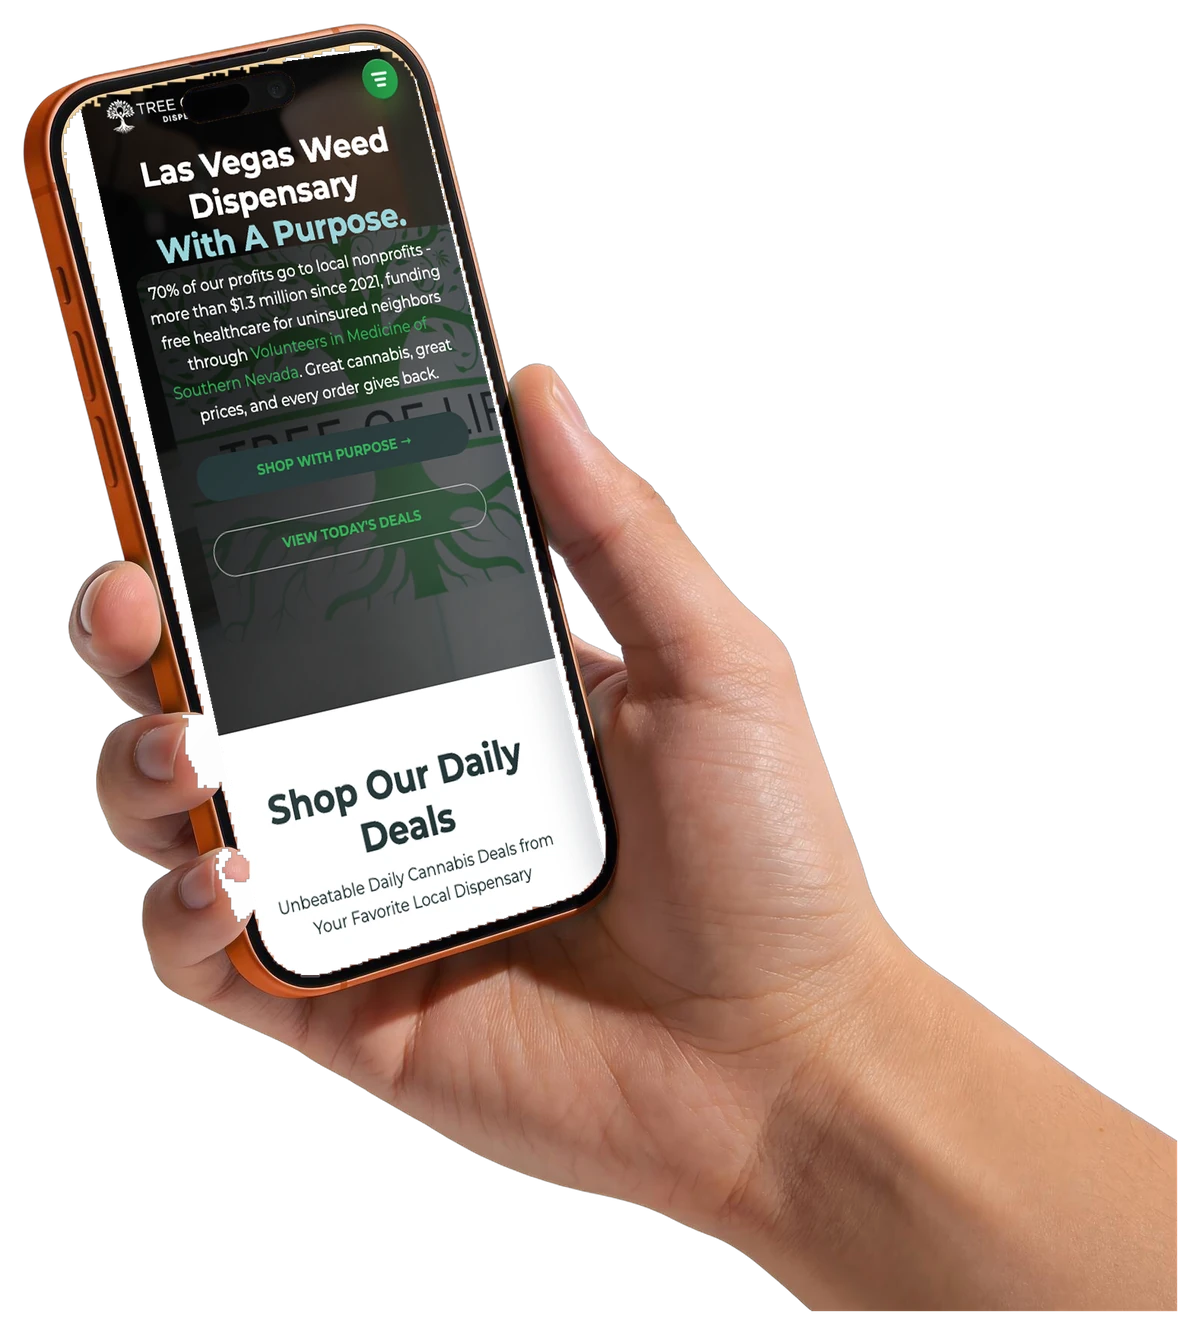
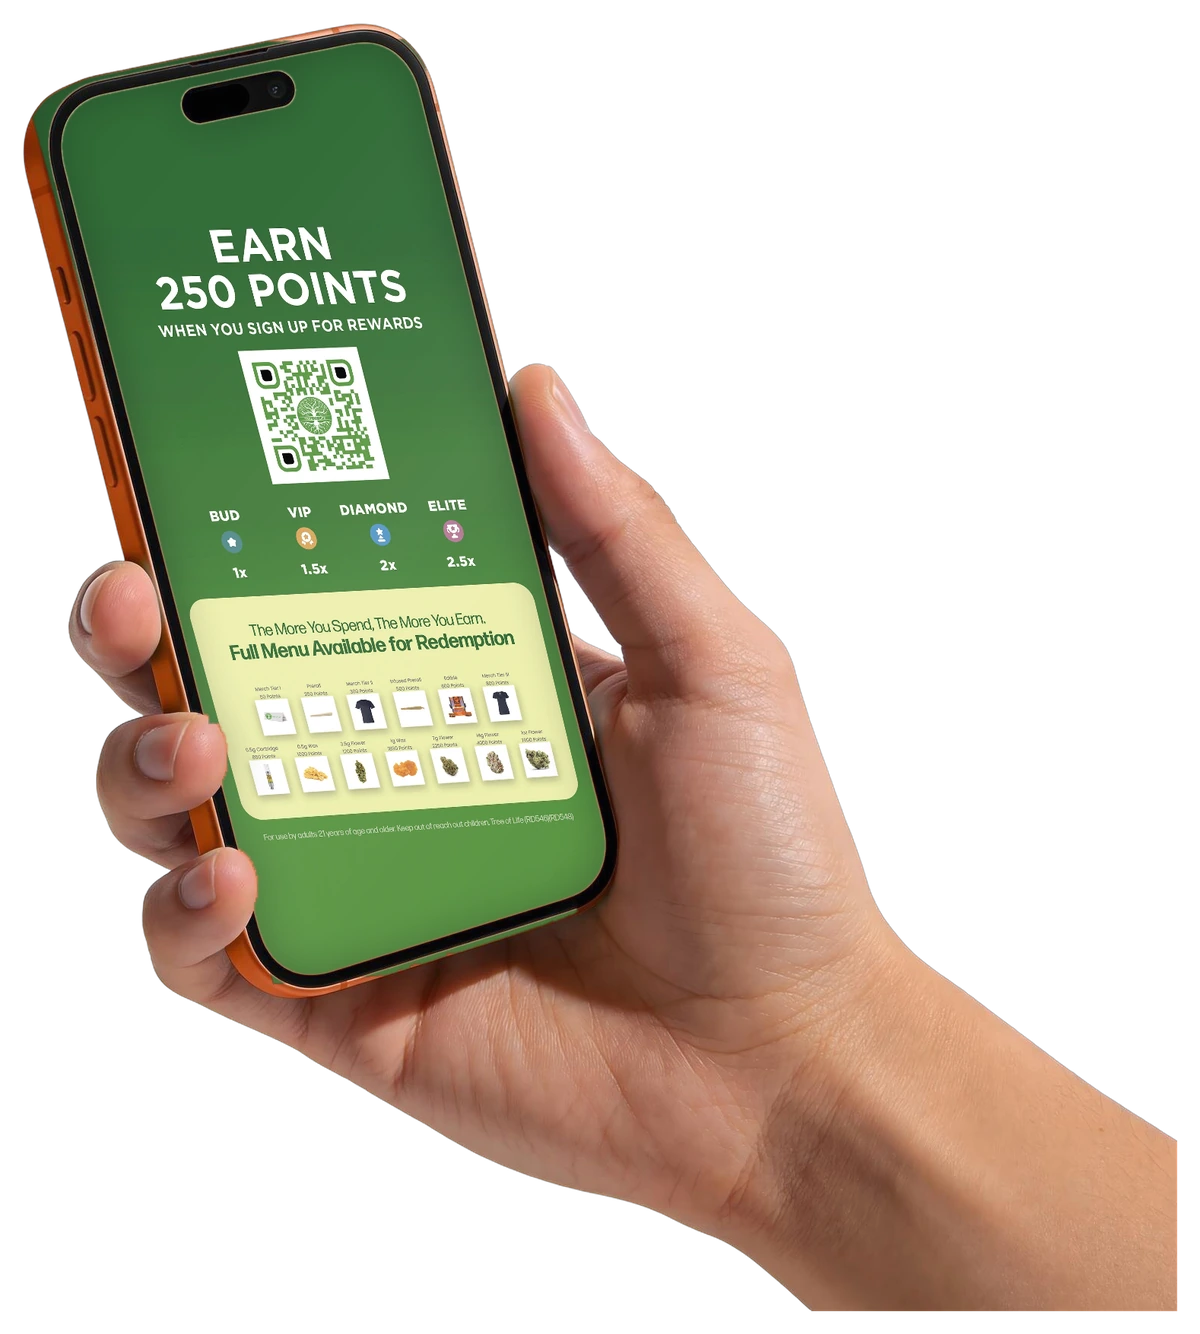
Rebuild the rewards phone: real screen edges, hand intact, rewards offer on screen
Screen content is now the client's rewards poster (earn 250 points, sign-up QR,
the four points tiers) rather than a homepage capture - the right thing for a
Points & Rewards section. It is fitted to the screen width and its own green
extended above and below to fill; both edge rows are uniform (std ~0), so the
join is invisible and no poster content is cropped.

The composite itself was rebuilt because the shipped one was visibly broken at
zoom: stair-stepped edges all round and a blocky white notch bitten out of the
fingertip. Four separate causes, each found by rendering and looking:

  - The mask was built on a 4x-DOWNSCALED grid and upscaled with np.kron, so
    every boundary was quantised to 4px. That was the stair-stepping and the
    chewed fingertip. Everything is full resolution now.

  - ImageDraw.floodfill was a silent no-op on this image (it filled 0 pixels),
    so the connected-component step never ran. It is gone entirely.

  - Arm skin measures rgb(214,154,118): r>200, b<150, r-b=96, so it passes the
    warm-orange test the placeholder screen passes. Colour alone cannot separate
    screen from hand. The separator is g-b - skin holds 8..38 while the screen's
    orange sits ~49 and its light top ~63 - with r-g in 30..95 keeping white
    on-screen text out. That skin set is then OPENED at 11px so only real fingers
    survive; leaving the placeholder's own text edges in punched holes that let
    "yourwebsite.com" show through the new screen.
[…]

Changed region(s): [[0.0308, 0.0307, 0.5242, 0.7376]]

diff --git a/index.html b/index.html
@@ -8,7 +8,7 @@
 
 <link rel="stylesheet" href="chrome.css">
[3 lines of base64/hex data omitted]
 <section class="sgb-component sgb-component-section tol-app" id="tol-app" data-tol-added="app-section" data-tol-slot="app-phone-bg">
   <div class="container">
     <div class="row tol-app-row">

diff --git a/_tooling/make-rewards-phone.py b/_tooling/make-rewards-phone.py
@@ -1,11 +1,12 @@
 #!/usr/bin/env python3
 """
-Composite a live capture of the MOBILE homepage onto the screen of a hand-held phone mockup,
+Composite a screen image onto the screen of a hand-held phone mockup,
 producing assets/in-pages/rewards_app_phone_mockup.webp for the Points & Rewards section.
 
 Inputs
   --mockup   the hand-holding-phone PNG (RGBA, transparent background)
-  --shot     a 390x844 screenshot of the site's own mobile view
+  --shot     a phone-screen-shaped image (see _tooling/assets/rewards-screen.png,
+             the rewards poster fitted to width with its own green extended to fill)
 Output
   assets/in-pages/rewards_app_phone_mockup.webp
 
@@ -41,7 +42,7 @@ from collections import deque
 
 try:
     import numpy as np
-    from PIL import Image, ImageFilter
+    from PIL import Image, ImageDraw, ImageFilter
 except ImportError:
     sys.exit("needs Pillow + numpy")
 
@@ -50,47 +51,43 @@ REPO = os.path.dirname(HERE)
 OUT = os.path.join(REPO, "assets", "in-pages", "rewards_app_phone_mockup.webp")
 
 
-def largest_component(mask, step=4):
-    small = mask[::step, ::step]
-    h, w = small.shape
-    seen = np.zeros_like(small, bool)
-    best = None
-    for sy in range(h):
-        for sx in range(w):
-            if small[sy, sx] and not seen[sy, sx]:
-                q = deque([(sy, sx)]); seen[sy, sx] = True; comp = []
-                while q:
-                    y, x = q.popleft(); comp.append((y, x))
-                    for dy, dx in ((1, 0), (-1, 0), (0, 1), (0, -1)):
-                        ny, nx = y + dy, x + dx
-                        if 0 <= ny < h and 0 <= nx < w and small[ny, nx] and not seen[ny, nx]:
-                            seen[ny, nx] = True; q.append((ny, nx))
-                if best is None or len(comp) > len(best):
-                    best = comp
-    out = np.zeros_like(small, bool)
-    for y, x in best:
-        out[y, x] = True
-    return np.kron(out, np.ones((step, step), bool))[:mask.shape[0], :mask.shape[1]]
+def screen_parts(px, box):
+    """Full-resolution screen mask + the skin that occludes it.
 
+    Three things this has to get right, each learned from a broken render:
 
-def fill_holes(mask):
-    H, W = mask.shape
-    seen = np.zeros((H, W), bool); q = deque()
-    for x in range(W):
-        for y in (0, H - 1):
-            if not mask[y, x] and not seen[y, x]:
-                seen[y, x] = True; q.append((y, x))
-    for y in range(H):
-        for x in (0, W - 1):
-            if not mask[y, x] and not seen[y, x]:
-                seen[y, x] = True; q.append((y, x))
-    while q:
-        y, x = q.popleft()
-        for dy, dx in ((1, 0), (-1, 0), (0, 1), (0, -1)):
-            ny, nx = y + dy, x + dx
-            if 0 <= ny < H and 0 <= nx < W and not mask[ny, nx] and not seen[ny, nx]:
-                seen[ny, nx] = True; q.append((ny, nx))
-    return mask | (~seen)
+    * FULL RESOLUTION. The first version ran the connected-component step on a 4x-downscaled
+      grid and upscaled with np.kron, so every mask boundary was quantised to 4px. That is what
+      produced the stair-stepped screen edge and the blocky notch bitten out of the fingertip.
+
+    * SKIN IS "ORANGE". Arm skin measures rgb(214,154,118): r>200, b<150, r-b=96 - it passes the
+      warm-orange test the placeholder screen passes. Colour alone therefore cannot separate the
+      screen from the hand holding it, which is why an earlier attempt that leaned on connected
+      components collapsed the moment the flood fill silently no-opped and merged the two.
+      The separator is g-b: skin stays in 8..38 while the screen's orange holds ~49 and its light
+      top ~63. r-g in 30..95 keeps white on-screen text (r-g=0) out of the skin set.
+
+    * ImageDraw.floodfill was a no-op on this image (it filled 0 pixels), so no connected-
+      component step is used at all. The screen is isolated by colour + a spatial box instead.
+
+    `box` is (x_max, y_max) bounding the phone; the arm occupies the lower right and a residual
+    blob of it survives skin rejection, so the box is what finally excludes it. Tuned to this
+    mockup, not general.
+    """
+    r, g, b, al = [px[..., i].astype(int) for i in range(4)]
+    screenish = ((al > 200) & (r > 200) & (b < 150) & ((r - b) > 85)) | \
+                ((al > 200) & (r > 235) & (g > 225) & (b > 215))
+    skin = (al > 200) & ((r - g) >= 30) & ((r - g) <= 95) & ((g - b) >= 8) & ((g - b) <= 38)
+    # OPEN the skin set so only real fingers survive. The placeholder's own white text and
+    # asterisks sit on orange, and their anti-aliased edges land inside the skin colour window;
+    # leaving them in punched holes that let "yourwebsite.com" show through the new screen.
+    # Strokes are a few px wide and vanish under an 11px opening; a finger is ~100px and does not.
+    sk = Image.fromarray((skin * 255).astype(np.uint8))
+    skin = np.array(sk.filter(ImageFilter.MinFilter(11)).filter(ImageFilter.MaxFilter(11))) > 0
+    H, W = r.shape
+    yy, xx = np.mgrid[0:H, 0:W]
+    inbox = (xx < box[0]) & (yy < box[1])
+    return (screenish & ~skin & inbox), skin
 
 
 def find_coeffs(dst, src):
@@ -107,39 +104,110 @@ def main():
     ap.add_argument("--mockup", required=True)
     ap.add_argument("--shot", required=True)
     ap.add_argument("--width", type=int, default=1200)
-    ap.add_argument("--overfill", type=float, default=1.035)
+    ap.add_argument("--overfill", type=float, default=1.02)
+    ap.add_argument("--preview", default=None)
+    ap.add_argument("--boxx", type=int, default=1400)
+    ap.add_argument("--boxy", type=int, default=1650)
     a = ap.parse_args()
 
     mock = Image.open(a.mockup).convert("RGBA"); W, H = mock.size
     px = np.array(mock)
+
     r, g, b, al = [px[..., i].astype(int) for i in range(4)]
-    screen = ((al > 200) & (r > 200) & (b < 150) & ((r - b) > 85)) | \
-             ((al > 200) & (r > 235) & (g > 225) & (b > 215))
-    comp = fill_holes(largest_component(screen))
-    ys, xs = np.nonzero(comp)
-    s, d = xs + ys, xs - ys
-    quad = [(int(xs[s.argmin()]), int(ys[s.argmin()])), (int(xs[d.argmax()]), int(ys[d.argmax()])),
-            (int(xs[s.argmax()]), int(ys[s.argmax()])), (int(xs[d.argmin()]), int(ys[d.argmin()]))]
-    cx, cy = xs.mean(), ys.mean()
-    grown = [(cx + (p[0] - cx) * a.overfill, cy + (p[1] - cy) * a.overfill) for p in quad]
-    print("screen quad:", quad, " mask px:", int(comp.sum()))
+
+    clean, skin = screen_parts(px, (a.boxx, a.boxy))
+
+    # Use the cleaned screen region ITSELF as the mask, not a polygon fitted to it. An earlier
+    # version eroded by 11px to shake off stray specks, took the extremes, then grew the quad
+    # back by a flat 3% - which under-recovered the LEFT edge by ~39px (x=555 vs the true 516)
+    # and left a band of the original cream gradient, with two of its white doodles, showing
+    # inside the bezel. The region's own boundary is the screen's true boundary.
+    ys, xs = np.nonzero(clean)
+
+    # Corners by fitting the four EDGES, not by taking extreme points. Extremes land on the
+    # rounded corners and are pulled inward, and they shift whenever the mask changes: that is
+    # what moved the bottom-right corner from x=1231 to x=1208 between runs and left a strip of
+    # the original orange down the right side of the screen. A fitted right edge puts that
+    # corner at x=1297, ~90px further out, which is where the screen actually ends.
+    # Left/right are fitted as x=f(y) and top/bottom as y=f(x); each is valid because the quad
+    # is tall and near-vertical. The middle 76% of rows/columns is used so the rounded corners
+    # and the fingertip notch do not drag the fit.
+    y0, y1 = ys.min(), ys.max(); hh = y1 - y0
+    rows = [(v, xs[ys == v].min(), xs[ys == v].max())
+            for v in range(int(y0 + .12 * hh), int(y1 - .12 * hh)) if (ys == v).sum() > 40]
+    Rr = np.array(rows)
+    Lm, Lb = np.polyfit(Rr[:, 0], Rr[:, 1], 1)      # left   x = Lm*y + Lb
+    Rm, Rb = np.polyfit(Rr[:, 0], Rr[:, 2], 1)      # right  x = Rm*y + Rb
+
+    # Top and bottom CANNOT be fitted the same way by column. On a rotated rectangle the
+    # per-column min-y traces the side edges, not the top, which is what produced a quad whose
+    # top-left corner sat at y=96 - hundreds of px above a screen that starts at y=309. Fit them
+    # instead from thin bands at the vertical extremes, which do lie on those two edges.
+    yyg = np.mgrid[0:r.shape[0], 0:r.shape[1]][0]
+    def band(lo, hi):
+        m = clean & (yyg >= lo) & (yyg <= hi)
+        by, bx = np.nonzero(m)
+        return np.polyfit(bx, by, 1)                # y = m*x + c
+    Tm, Tb = band(y0, y0 + 40)
+    Bm, Bb = band(y1 - 40, y1)
+
+    def meet(m1, b1, m2, b2):                        # x = m1*y + b1  with  y = m2*x + b2
+        x = (m1 * b2 + b1) / (1 - m1 * m2)
+        return (x, m2 * x + b2)
+
+    quad = [meet(Lm, Lb, Tm, Tb), meet(Rm, Rb, Tm, Tb),
+            meet(Rm, Rb, Bm, Bb), meet(Lm, Lb, Bm, Bb)]
+    cx = sum(p[0] for p in quad) / 4.0
+    cy = sum(p[1] for p in quad) / 4.0
+    grow = lambda k: [(cx + (p[0] - cx) * k, cy + (p[1] - cy) * k) for p in quad]
+
+    # Mask = the screen polygon MINUS the fingers MINUS the dark bezel. Masking by screen COLOUR
+    # left a bright 1-3px rim tracing the screen edge and the island - blend pixels that are
+    # neither "screenish" nor skin - and morphological growth to cover it overshot onto the
+    # bezel and tore white gaps down the right edge. Subtracting what is genuinely in front
+    # (skin) or behind (bezel) captures the rim by construction, and lets the polygon be grown
+    # safely: any overshoot lands on the dark bezel and is removed.
+    H, W = r.shape
+    poly = Image.new("L", (W, H), 0)
+    ImageDraw.Draw(poly).polygon(grow(1.012), fill=255)
+    darkest = np.maximum(np.maximum(r, g), b)
+    comp = (np.array(poly) > 0) & ~skin & (darkest >= 90) & (al > 200)
+    grown = grow(1.012 * a.overfill)
+    print("fitted quad:", [(round(x), round(y)) for x, y in quad], " mask px:", int(comp.sum()))
 
     shot = Image.open(a.shot).convert("RGBA"); sw, sh = shot.size
     warped = shot.transform((W, H), Image.PERSPECTIVE,
                             find_coeffs(grown, [(0, 0), (sw, 0), (sw, sh), (0, sh)]),
                             resample=Image.BICUBIC)
 
-    mi = Image.fromarray((comp * 255).astype(np.uint8)).filter(ImageFilter.GaussianBlur(0.7))
+    # Soft edge: erode by ~1px first so the feather falls INSIDE the screen and never bleeds
+    # onto the bezel, then blur. This is what removes the hard pasted-rectangle look.
+    mi = Image.fromarray((comp * 255).astype(np.uint8))
+    mi = mi.filter(ImageFilter.MinFilter(3)).filter(ImageFilter.GaussianBlur(1.1))
+
     out = mock.copy()
     out.paste(warped, (0, 0), mi)
-    island = (r < 70) & (g < 70) & (b < 70) & (al > 200) & comp
-    out.paste(mock, (0, 0),
-              Image.fromarray((island * 255).astype(np.uint8)).filter(ImageFilter.GaussianBlur(0.5)))
+
+    # ambient: the screen is lit by the same scene, so darken it very slightly toward the
+    # bezel. A perfectly flat paste is the main tell that something was composited in.
     yy, xx = np.mgrid[0:H, 0:W]
+    inner = np.array(Image.fromarray((comp * 255).astype(np.uint8)).filter(ImageFilter.MinFilter(3))
+                     .filter(ImageFilter.GaussianBlur(26))).astype(float) / 255.0
+    vign = np.clip((1.0 - inner) * 0.42, 0, 1) * (comp.astype(float))
+    shade = Image.new("RGBA", (W, H), (12, 16, 20, 0))
+    shade.putalpha(Image.fromarray((vign * 190).astype(np.uint8)))
+    out.alpha_composite(shade)
+
+    # glass sheen
     band = np.clip(1 - np.abs((xx * 0.55 + yy * 0.45) - 980) / 560, 0, 1) ** 2
     gl = Image.new("RGBA", (W, H), (255, 255, 255, 0))
-    gl.putalpha(Image.fromarray(((band * 22).astype(int) * np.array(mi).astype(int) // 255).astype(np.uint8)))
+    gl.putalpha(Image.fromarray(((band * 20).astype(int) * np.array(mi).astype(int) // 255).astype(np.uint8)))
     out.alpha_composite(gl)
+
+    # dynamic island back on top
+    island = (r < 70) & (g < 70) & (b < 70) & (al > 200) & comp
+    out.paste(mock, (0, 0),
+              Image.fromarray((island * 255).astype(np.uint8)).filter(ImageFilter.GaussianBlur(0.6)))
 
     alpha = np.array(out)[..., 3]
     ys2, xs2 = np.nonzero(alpha > 6)
@@ -148,8 +216,12 @@ def main():
     canv = Image.new("RGBA", (crop.width + pad * 2, crop.height + pad * 2), (0, 0, 0, 0))
     canv.paste(crop, (pad, pad), crop)
     final = canv.resize((a.width, round(a.width * canv.size[1] / canv.size[0])), Image.LANCZOS)
-    final.save(OUT, "WEBP", quality=90, method=6)
+    final.save(OUT, "WEBP", quality=92, method=6)
     print("wrote %s  %s  %d bytes" % (OUT, final.size, os.path.getsize(OUT)))
+    if a.preview:
+        pv = Image.new("RGBA", final.size, (255, 255, 255, 255)); pv.alpha_composite(final)
+        pv.convert("RGB").save(a.preview)
+        print("preview ->", a.preview)
 
 
 if __name__ == "__main__":
